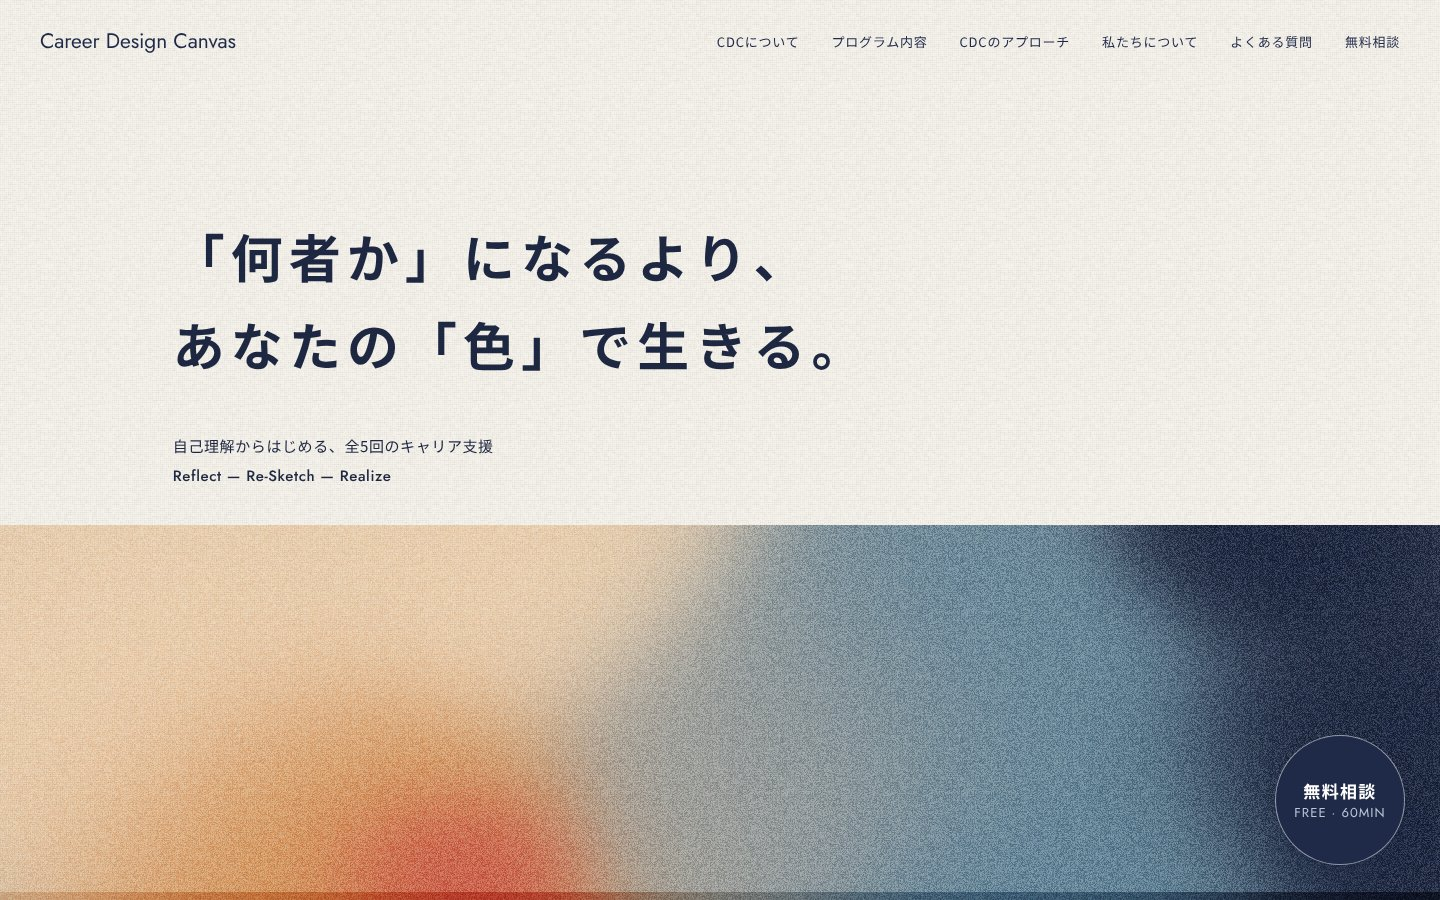
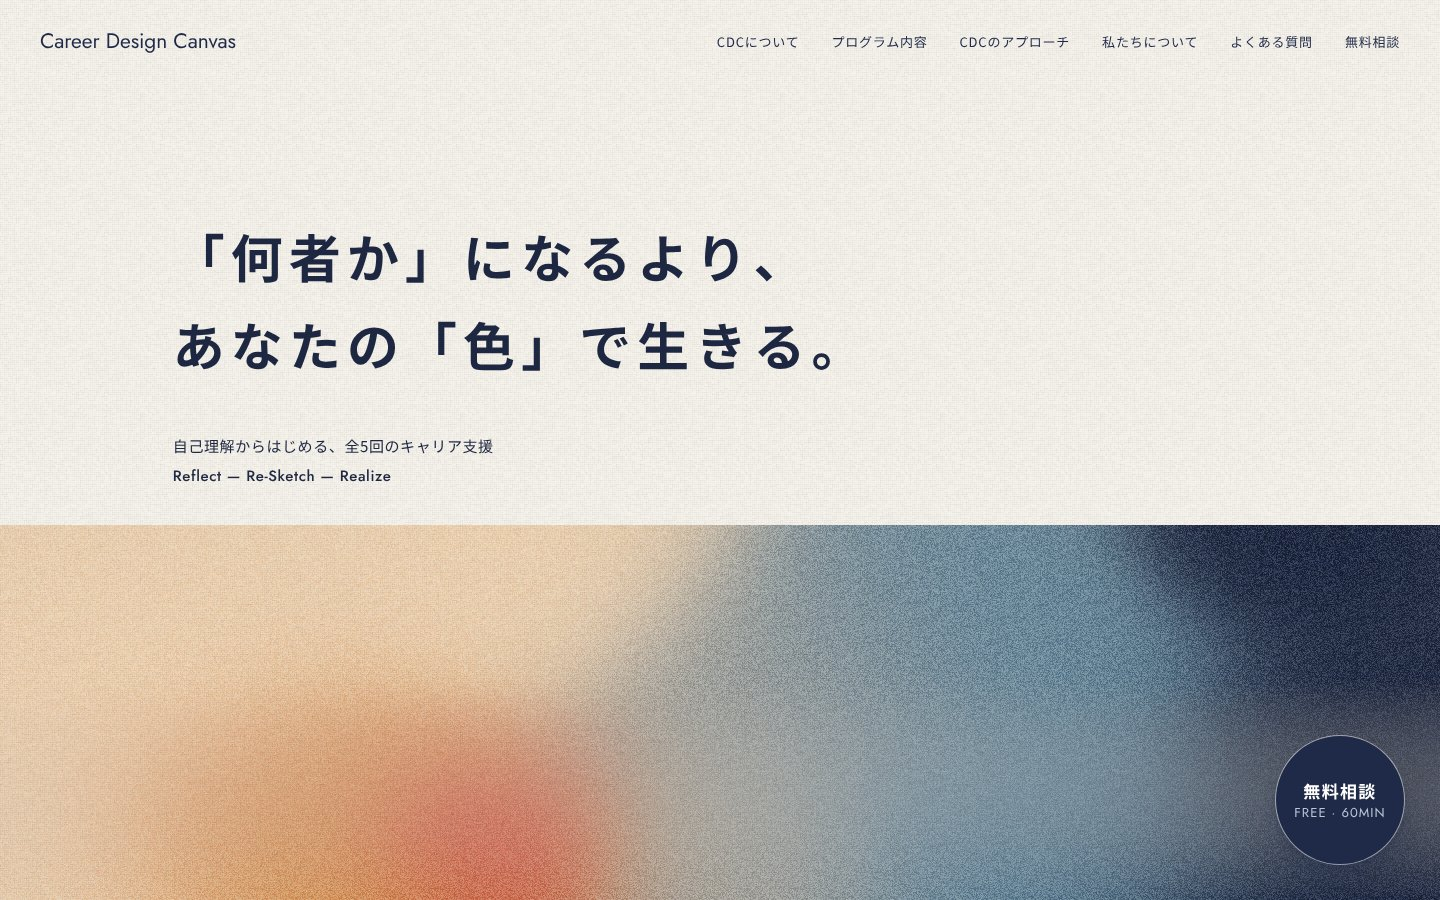
試し：一番上の色の帯と下ににじむ層の切れ目をなくす
Claude-Session: https://claude.ai/code/session_01GVQrUqGmQ2dnXurooJoMfp

Changed region(s): [[0.0, 0.56, 1.0, 1.0]]

diff --git a/1108k.html b/1108k.html
@@ -1388,9 +1388,10 @@ window.CDCFIELD=(function(){
   var made=[];
   function build(){ made.forEach(function(x){ x.remove(); }); made=[];
     var fr=document.querySelector('#top .kvfr'); if(!fr) return setTimeout(build,80);
-    var y=fr.getBoundingClientRect().bottom+scrollY-8, docH=document.documentElement.scrollHeight, vh=innerHeight;
+    var XF=220, bd=document.querySelector('#top .kvband'); if(bd){ var mk='linear-gradient(to bottom,#000 calc(100% - '+(XF+8)+'px),transparent calc(100% - 8px))'; bd.style.webkitMaskImage=mk; bd.style.maskImage=mk; }
+    var y=fr.getBoundingClientRect().bottom+scrollY-XF, docH=document.documentElement.scrollHeight, vh=innerHeight;
     if(M==='e2') made.push(layer(y, docH-y, 'linear-gradient(to bottom, rgba(0,0,0,.6) 0, rgba(0,0,0,.14) 12%, rgba(0,0,0,.06) 40%, rgba(0,0,0,.03) 75%, transparent 100%)', 1, 40));
-    else made.push(layer(y, vh*1.1, 'linear-gradient(to bottom, rgba(0,0,0,.75) 0, rgba(0,0,0,.3) 30%, transparent 100%)', 1));
+    else made.push(layer(y, vh*1.1+XF, 'linear-gradient(to bottom, transparent 0, #000 '+XF+'px, rgba(0,0,0,.8) calc('+XF+'px + 10%), rgba(0,0,0,.5) calc('+XF+'px + 28%), rgba(0,0,0,.2) calc('+XF+'px + 52%), transparent 100%)', 1));
     if(M==='e3'){ var j=document.getElementById('journey'); if(j){ var r=j.getBoundingClientRect(); made.push(layer(r.top+scrollY, r.height, 'linear-gradient(to bottom, transparent 0, rgba(0,0,0,.42) 28%, rgba(0,0,0,.42) 62%, transparent 100%)', 1, 20)); } } }
   var tm; function later(){ clearTimeout(tm); tm=setTimeout(build,300); }
   if(document.readyState==='complete') build(); else addEventListener('load',build);
